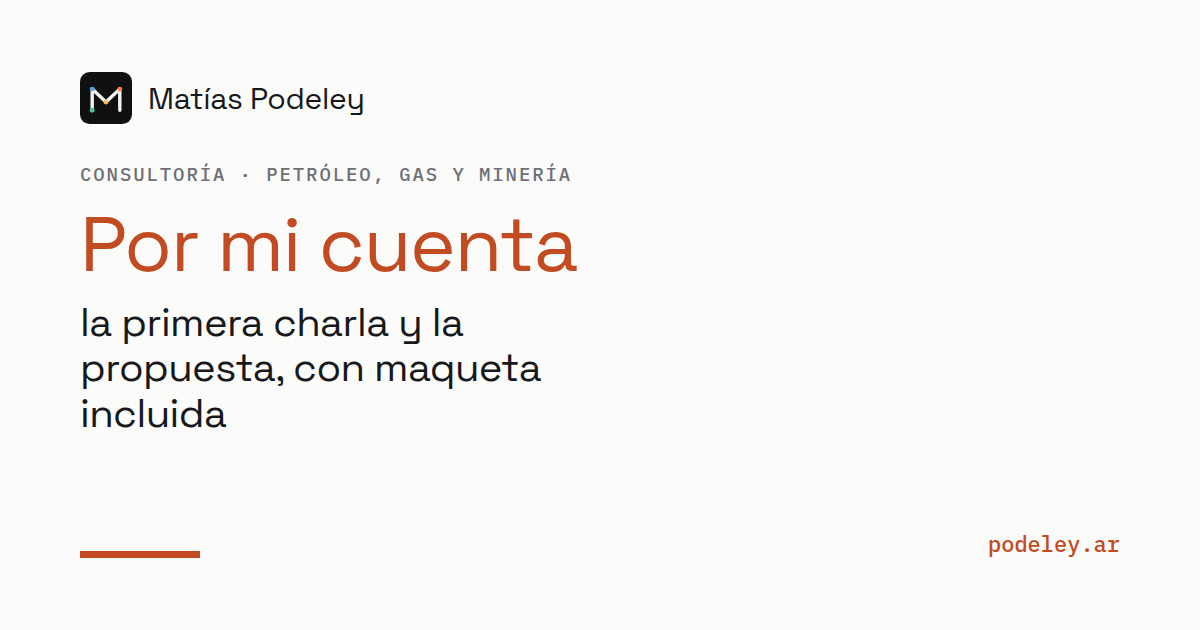
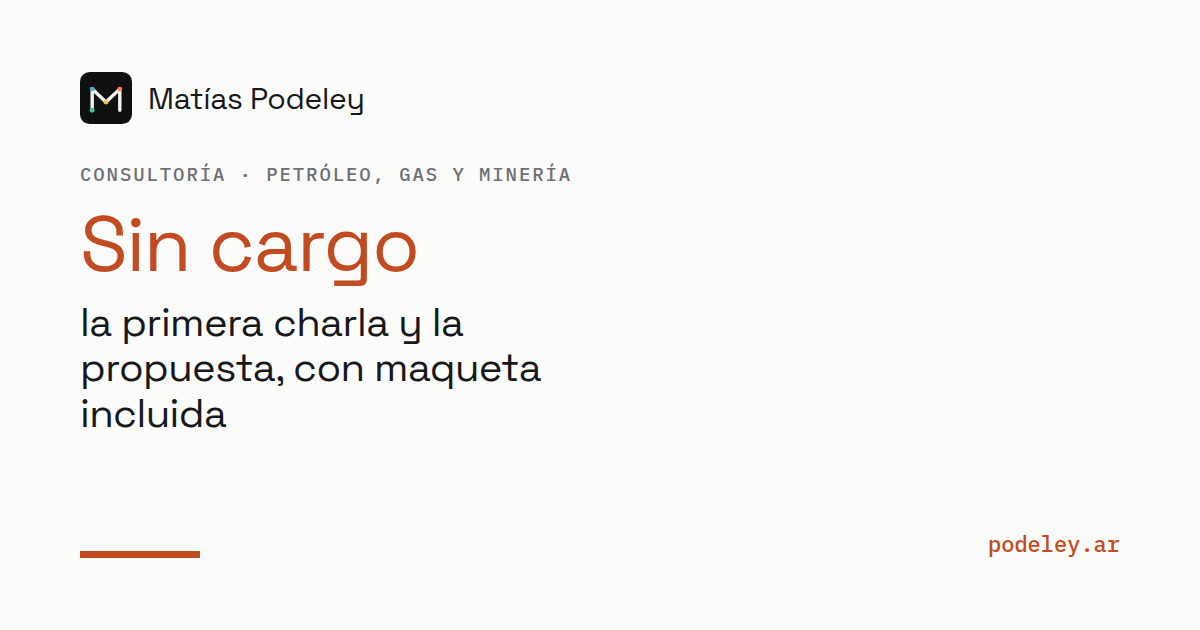
Consultoría continúa el hook: de la pregunta de negocio al proyecto andando
El h1 retoma la promesa del home (primero la pregunta de negocio) y la
lleva hasta el proyecto. La tarjeta OG de la hoja deja el "Por mi cuenta"
del registro viejo: ahora dice "Sin cargo" / "At no cost".

Changed region(s): [[0.0617, 0.3317, 0.4933, 0.4524]]

diff --git a/src/pages/consultoria.es.html b/src/pages/consultoria.es.html
@@ -22,7 +22,7 @@
 
 <section class="hero wrap">
   <p class="kicker">Consultoría · Petróleo, gas y minería · Buenos Aires</p>
-  <h1>De la decisión al proyecto andando</h1>
+  <h1>De la pregunta de negocio al proyecto andando</h1>
   <p class="hero-sub">Cuatro pasos de la primera charla a la ejecución con handover, con el alcance conversado antes de empezar y fuentes que su equipo puede auditar. La primera charla es sin cargo; si hay caso, la propuesta con maqueta también.</p>
   <p class="hero-cta"><a class="btn btn--primary" href="https://calendar.app.google/bErn9ZNtQpSUbjxh6" target="_blank" rel="noopener" data-goatcounter-click="agenda-consultoria-hero">Agendar 20 minutos</a> <a class="link-plain" href="#proceso">Ver el proceso <span class="arw">↓</span></a></p>
 </section>

diff --git a/src/pages/consultoria.en.html b/src/pages/consultoria.en.html
@@ -22,7 +22,7 @@
 
 <section class="hero wrap">
   <p class="kicker">Consulting · Oil, gas &amp; mining · Buenos Aires</p>
-  <h1>From decision to working project</h1>
+  <h1>From business question to working project</h1>
   <p class="hero-sub">Four steps from the first call to execution and handover, with the scope talked through before anything starts and sources your team can audit. The first call is at no cost; if there is a case, so is the proposal, mockup included.</p>
   <p class="hero-cta"><a class="btn btn--primary" href="https://calendar.app.google/bErn9ZNtQpSUbjxh6" target="_blank" rel="noopener" data-goatcounter-click="agenda-consulting-hero">Book 20 minutes</a> <a class="link-plain" href="#proceso">See the process <span class="arw">↓</span></a></p>
 </section>
